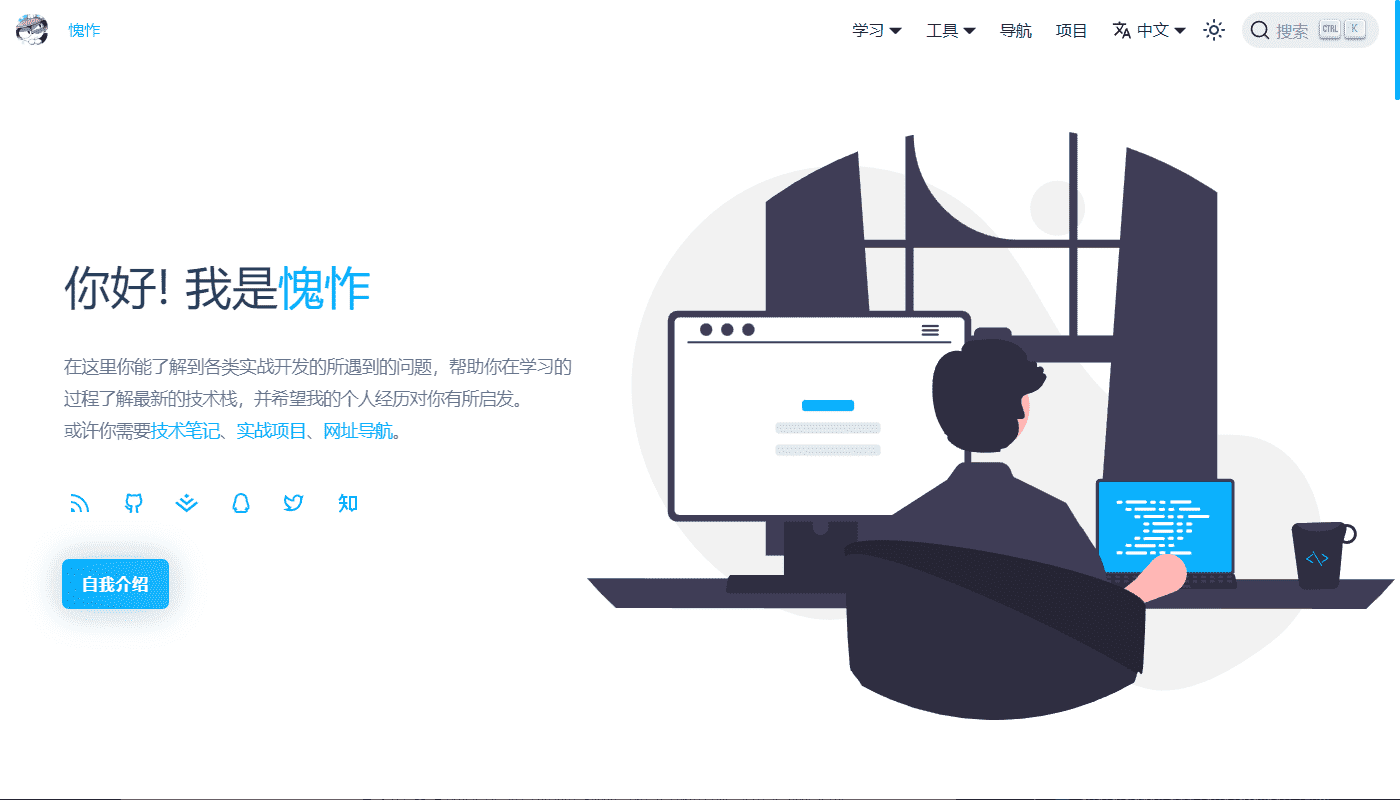
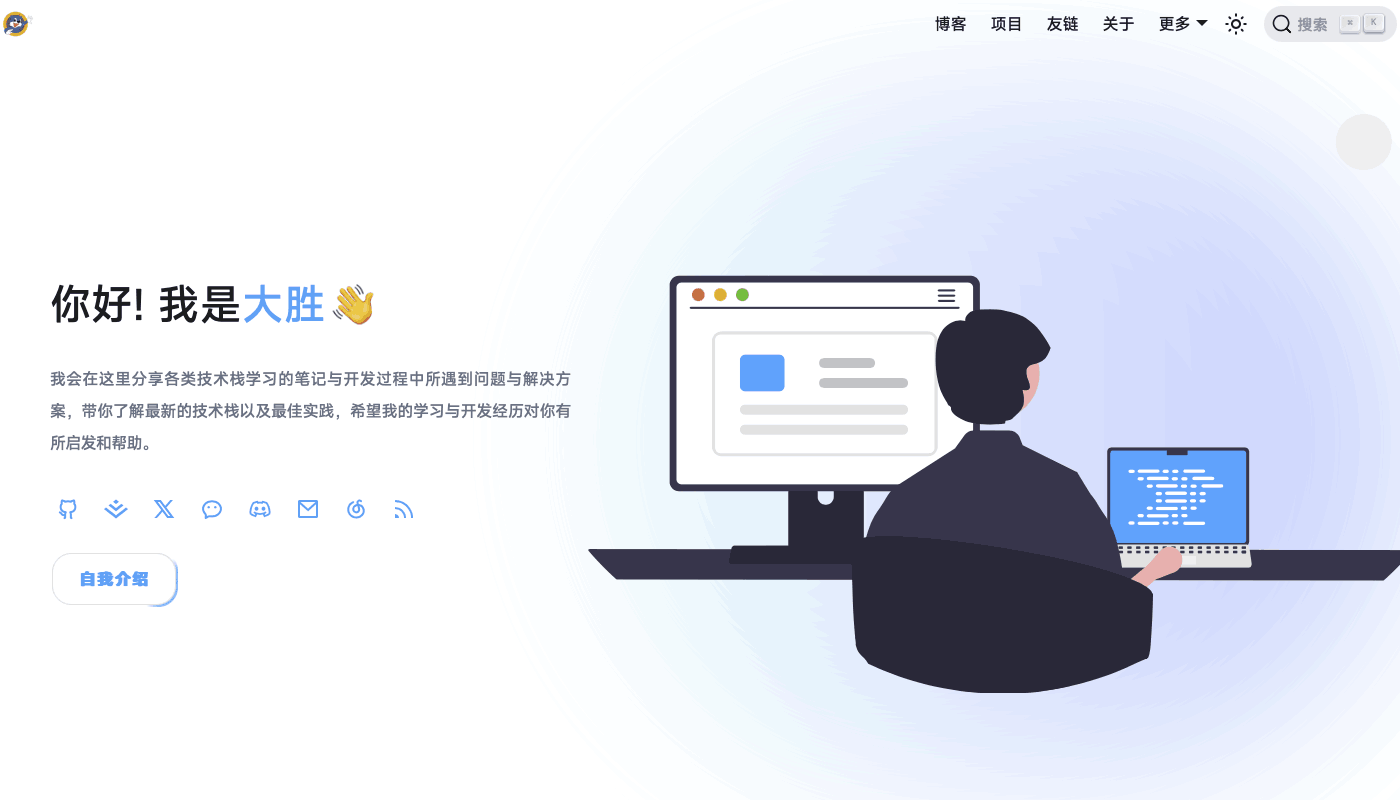
🎉 init(algolia search): 本地docker push搜索数据

diff --git a/data/projects.tsx b/data/projects.tsx
@@ -2,19 +2,10 @@ export const projects: Project[] = [
   {
     title: '大胜的小站',
     description: '🦖 基于 Docusaurus 静态网站生成器实现个人博客',
-    preview: '/img/project/blog.jpg',
-    website: 'https://kuizuo.cn',
+    preview: '/img/project/blog.png',
+    website: 'https://ds-blog-prod.vercel.app',
     source: 'https://github.com/daShengeng369/blog',
     tags: ['opensource', 'design', 'favorite'],
-    type: 'web',
-  },
-  {
-    title: 'Youni（校园社交平台）',
-    description: '基于 React Native + NestJs 实现的一个校园社交平台应用',
-    preview: '/img/project/youni.png',
-    website: 'https://youni.vercel.app',
-    source: 'https://github.com/kuizuo/youni',
-    tags: ['large', 'product'],
     type: 'web',
   },
   {

diff --git a/src/components/landing/Hero/index.tsx b/src/components/landing/Hero/index.tsx
@@ -63,7 +63,7 @@ export default function Hero() {
         <Name />
         <motion.p custom={2} initial="hidden" animate="visible" variants={variants} className="max-lg:px-4">
           <Translate id="homepage.hero.text">
-            在这里我会分享各类技术栈所遇到问题与解决方案，带你了解最新的技术栈以及实际开发中如何应用，并希望我的开发经历对你有所启发。
+            我会在这里分享各类技术栈学习的笔记与开发过程中所遇到问题与解决方案，带你了解最新的技术栈以及最佳实践，希望我的学习与开发经历对你有所启发和帮助。
           </Translate>
         </motion.p>
         <motion.div custom={3} initial="hidden" animate="visible" variants={variants}>

diff --git a/docusaurus.config.ts b/docusaurus.config.ts
@@ -131,8 +131,8 @@ const config: Config = {
         `,
     },
     algolia: {
-      appId: 'X8NILR1JGQ',
-      apiKey: 'c1e275c2e72c8a9cb242921e6f4a32fe',
+      appId: 'X8NILR1JGQ', // Application ID
+      apiKey: 'c1e275c2e72c8a9cb242921e6f4a32fe', // YOUR_SEARCH_API_KEY
       indexName: 'dasheng',
     },
     prism: {

diff --git a/README.md b/README.md
@@ -2,7 +2,7 @@
  * @Author: 齐大胜 782395122@qq.com
  * @Date: 2025-01-19 04:52:52
  * @LastEditors: 齐大胜 782395122@qq.com
- * @LastEditTime: 2025-02-15 14:28:44
+ * @LastEditTime: 2025-02-16 13:21:06
  * @FilePath: /ds-blog/README.md
  * @Description: 
  * 
@@ -19,7 +19,7 @@
 
 ## 👋 介绍
 
-在这里我会分享各类技术栈所遇到问题与解决方案，带你了解最新的技术栈以及实际开发中如何应用，并希望我的开发经历对你有所启发。
+我会在这里分享各类技术栈学习的笔记与开发过程中所遇到问题与解决方案，带你了解最新的技术栈以及最佳实践，希望我的学习与开发经历对你有所启发和帮助。
 
 如果你想要搭建一个类似的站点，可直接 [Fork](https://github.com/qidasheng369/ds-blog/fork) 本仓库使用，或者通过 [StackBlitz](https://stackblitz.com/github/qidasheng369/ds-blog) 在线运行本项目，通过 [Vercel](https://vercel.com/new/clone?repository-url=https://github.com/qidasheng369/ds-blog/tree/main&project-name=blog&repo-name=blog) 一键部署。
 

diff --git a/blog/program/第二个博客搭建之Docusaurus.md b/blog/program/第二个博客搭建之Docusaurus.md
@@ -1,3 +1,13 @@
+<!--
+ * @Author: 齐大胜 782395122@qq.com
+ * @Date: 2025-02-12 16:01:06
+ * @LastEditors: 齐大胜 782395122@qq.com
+ * @LastEditTime: 2025-02-16 13:07:29
+ * @FilePath: /ds-blog/blog/program/第二个博客搭建之Docusaurus.md
+ * @Description: 
+ * 
+ * Copyright (c) 2025 by 齐大胜 email: 782395122@qq.com, All Rights Reserved. 
+-->
 ---
 slug: second-blog-is-docusaurus
 title: 第二个博客搭建之Docusaurus
@@ -6,7 +16,7 @@ authors: dasheng
 tags: [blog, docusaurus, project]
 keywords: [blog, docusaurus, project]
 description: 使用 docusaurus 搭建个人博客，并对其主题进行魔改
-image: /img/project/blog.jpg
+image: /img/project/blog.png
 ---
 
 博客地址: [大胜的小站](https://dasheng.cn/)
